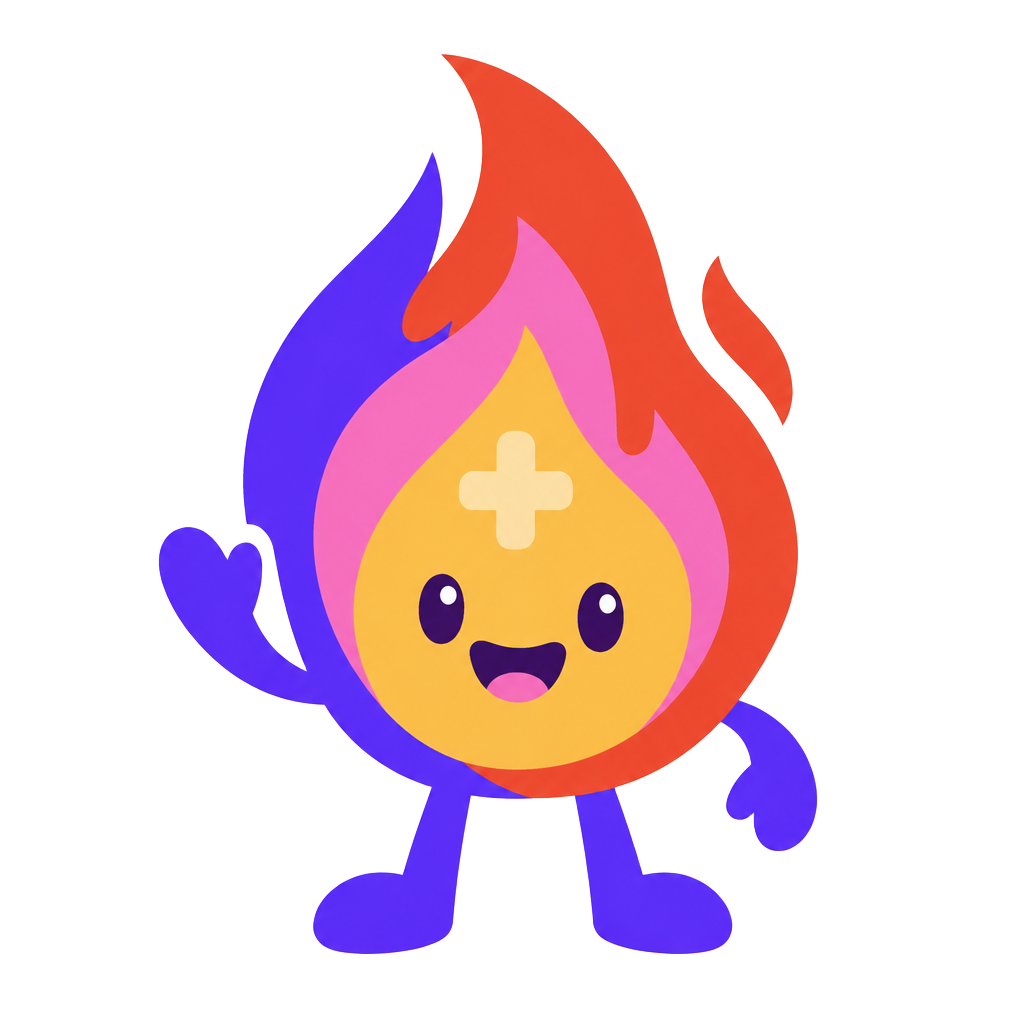
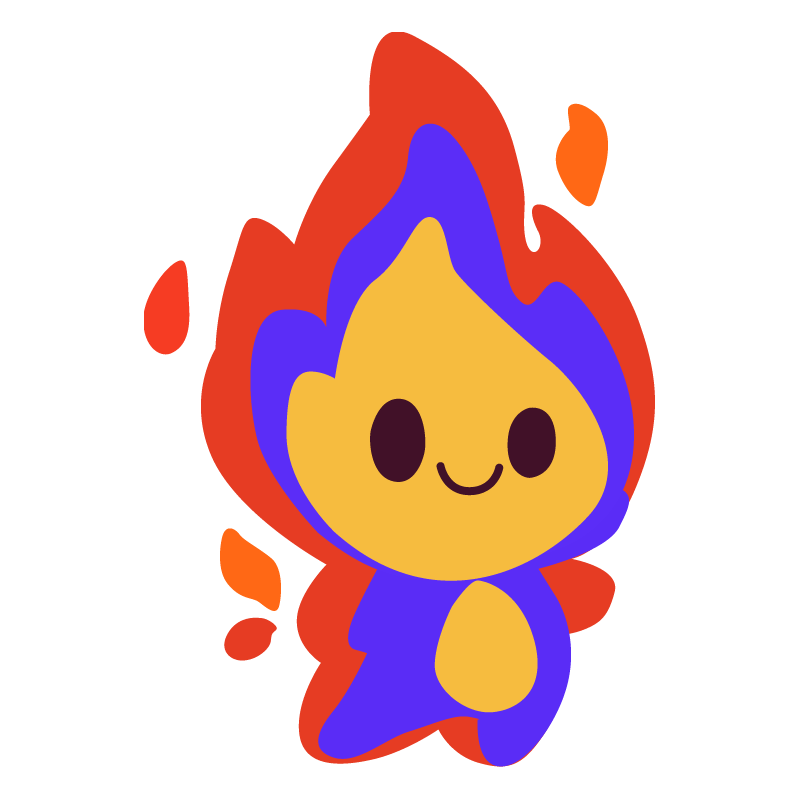
Reemplazar la mascota de Fuego+ por la nueva llama
PNG transparente recortado a 800×800 (de 730 KB a 30 KB). Se actualizan las
medidas en sus usos y el texto alternativo de la portada.

diff --git a/src/routes/_authenticated/lesson.$lessonId.tsx b/src/routes/_authenticated/lesson.$lessonId.tsx
@@ -84,7 +84,7 @@ function LessonPlayer() {
   if (lesson.experience) {
     return (
       <div className="flex min-h-screen flex-col items-center justify-center gap-4 bg-background p-6 text-center">
-        <img src={mascot} alt="" width={1024} height={1024} className="w-40 animate-pop" />
+        <img src={mascot} alt="" width={800} height={800} className="w-40 animate-pop" />
         <h1 className="text-3xl font-bold text-primary">Estamos trabajando en el contenido</h1>
         <p className="max-w-sm text-lg text-muted-foreground">
           La lección «{lesson.title}» estará disponible muy pronto. ¡Gracias por tu paciencia!
@@ -113,7 +113,7 @@ function LessonPlayer() {
     const pct = total ? Math.round((correct / total) * 100) : 100;
     return (
       <div className="flex min-h-screen flex-col items-center justify-center gap-4 bg-background p-6 text-center">
-        <img src={mascot} alt="" width={1024} height={1024} className="w-40 animate-pop" />
+        <img src={mascot} alt="" width={800} height={800} className="w-40 animate-pop" />
         <h1 className="text-4xl font-bold text-primary">¡Lección completada!</h1>
         <div className="flex gap-3">
           <div className="card-chunky border-gold px-6 py-3"><div className="text-xs font-extrabold uppercase text-gold">XP</div><div className="font-display text-2xl font-bold">+{lesson.xp}</div></div>
@@ -143,7 +143,7 @@ function LessonPlayer() {
           <div className="animate-pop">
             <h1 className="text-2xl font-bold">{lesson.title}</h1>
             <div className="mt-6 flex items-start gap-4">
-              <img src={mascot} alt="" width={1024} height={1024} className="w-24" />
+              <img src={mascot} alt="" width={800} height={800} className="w-24" />
               <div className="card-chunky flex-1 p-5">
                 <p className="text-xl font-semibold italic">“{lesson.passage}”</p>
                 <p className="mt-2 text-sm font-extrabold text-secondary">{lesson.reference}</p>

diff --git a/src/routes/index.tsx b/src/routes/index.tsx
@@ -35,7 +35,7 @@ function Landing() {
         </Button>
       </header>
       <main className="mx-auto grid max-w-5xl items-center gap-10 px-6 py-12 md:grid-cols-2">
-        <img src={mascot} alt="Fuego+, la llama con el signo más" width={1024} height={1024} className="mx-auto w-72 animate-floaty rounded-[3rem] bg-cream p-8 md:w-96" />
+        <img src={mascot} alt="Fuego+, la llama sonriente" width={800} height={800} className="mx-auto w-72 animate-floaty rounded-[3rem] bg-cream p-8 md:w-96" />
         <div className="text-center md:text-left">
           <h1 className="text-5xl font-black leading-[1.02] tracking-tight md:text-7xl">
             Conoce su Palabra. <span className="text-primary">Arde por Él.</span>

diff --git a/src/routes/auth.tsx b/src/routes/auth.tsx
@@ -58,7 +58,7 @@ function AuthPage() {
   return (
     <div className="flex min-h-screen items-center justify-center bg-background px-4">
       <div className="w-full max-w-sm">
-        <img src={mascot} alt="" width={1024} height={1024} className="mx-auto w-28 animate-floaty" />
+        <img src={mascot} alt="" width={800} height={800} className="mx-auto w-28 animate-floaty" />
         <h1 className="mt-2 text-center text-3xl font-bold">
           {mode === "in" ? "¡Hola de nuevo!" : "Crea tu perfil"}
         </h1>
